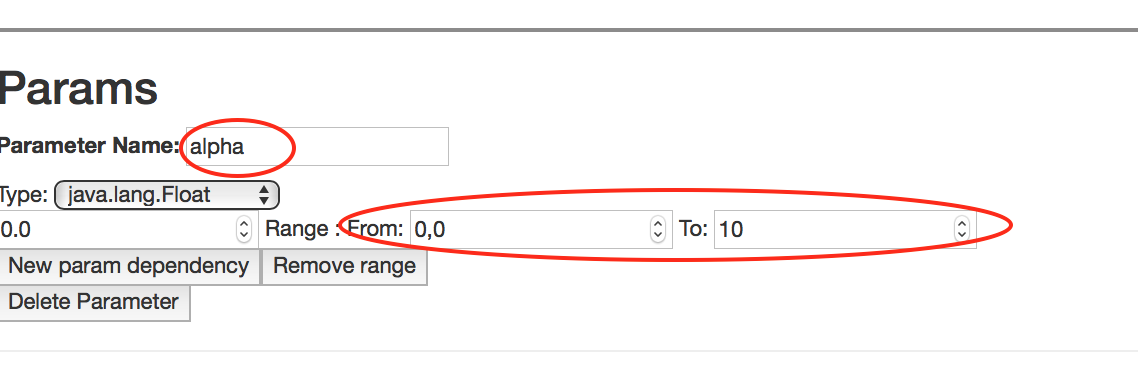
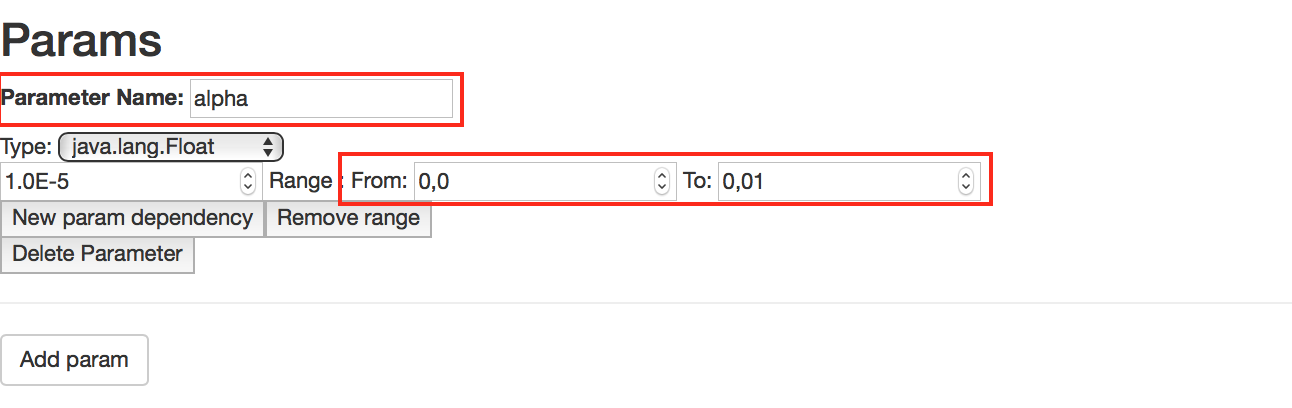
lasso example, random forest moved

diff --git a/readmefiles/example.md b/readmefiles/example.md
@@ -5,10 +5,13 @@ In the `examples` folder within the project home directory you can find a couple
 
 Examples include a couple of simple function widely used at testing various optimization techniques, as Rastrigin and Rosenbrock functions,  and also a number of machine learning problems, where performance of learning process can be infuenced by some parameters of the learning process, that are the **hyperparameters**.
 
-## BBF setup
+
+
+
+Rosenbrock
 -
 
-## Rosenbrock
+## BBF setup
 
 The setup for finding the minimum for the Rosenbrock function ([Wiki](https://en.wikipedia.org/wiki/Rosenbrock_function)) will appear when you start your GUI, that looks something like this:
 
@@ -55,9 +58,69 @@ In this section we have to give the name(**a**) BlaBoO has the search for betwee
 
 Now we are done here, so we can push **OK** to go to the next phase where we can choose between optimization strategies.
 
-##Random forest with R
 
-In this example we will show how to use BlaBoO for an ML algorithm written in R. We will optimize a script which use random forests for predicting attributes of a given dataset. For our data, we're going to use the Wine Quality data set from the UCI Machine Learning Repository.
+## Algorithm setup
+
+<img src="examples/Rosenbrock_algsel.png" alt="Rosenbrock" width="600" >
+
+Here just for sake of simplicity from the algorithm selector we choose **RandomSearch**, which doesn't requires any further setup, merely makes random guesses within the range of the variables and execute the BBF with those.
+ 
+Since there is nothing more to do here push **Run**. 
+
+## Results
+
+<img src="examples/Rosenbrock_res.png" alt="Rosenbrock" width="600" >
+
+In this slightly strange chart we can see the evolution of our objective value in function of time. Why we cant see any nice convergence process here has two reasons. On one hand we only guess randomly that is without taking into consideration past values making the chart fluctuating. The second thing here that due to this random guessing the process can be run fully parallel, so we get  the results in waves, where the fluctuation is big in short time, then we are waiting for the next wave making the chart smooth inbetween.
+
+
+An ML use-case: Lasso regression
+-
+
+This example demonstrates a use case that is  a bit closer to real ML scenarios, here we try to approximate a part of a perturbed sinus curve 
+with a 
+polynomial function, using [Lasso (Least Absolute Shrinkage and Selection Operator)](https://en.wikipedia.org/wiki/Lasso_(statistics))regression. 
+Lasso regression performs L1 regularization, penalizing complextity, 
+in this particular case coefficients of high absolute value. Controlling how to what extent we want to penalize 
+complexity in Lasso regression is carried out through setting the value of an **alpha** parameter.
+
+The code and the idea of this example is taken form:
+
+To generate the dataset we can use the following command from the home directory opf BlaBoO:
+
+```sh
+python3 examples/Lasso_Python/generate_sin_data.py
+```
+Then the experiment for ```alpha = 0.01``` looks like :
+
+```sh
+ python3 examples/Lasso_Python/Lasso_poli_reg_on_sinus_curve.py 0.01
+```
+Now we seek to find an optimal alpha value, so we will substitute `0.01` with a variable `alpha`, so the command line will look as follows:
+
+<img src="examples/Lasso_cl.png" alt="Lasso command line" width="600" >
+
+In the **Param** section then have to define the `alpha` param with the range we want to search in, for now we want to try values between `0` and `0.01`. 
+
+<img src="examples/Lasso_param.png" alt="Lasso parameter" width="600" >
+
+Finally we specify what is our target variable and what we want from that, it will be the `rss` value printed by the BBF, that should be **minimized**. Also should specify how many iteration should be run, let it be 100 for now.
+
+<img src="examples/Lasso_obj.png" alt="Lasso objectives" width="600" >
+
+Here we would like to try values evenly distributed in the given range of `alpha`. Therefore we can choose `GridSearch` from the algorithm page, and set the `stepsize` belonging to `alpha` to the length of the range of `alpha`, devided by the number of trials we want to run (that is the iteration count we gave in the **Objective** section)
+
+<img src="examples/Lasso_alg.png" alt="Lasso objectives" width="600" >
+
+When the execution of trials is completed we can see a result chart (again a bit messy due to parallelization), where we can find that we achieved the best results at `alpha = 0.00001`.
+
+<img src="examples/Lasso_res.png" alt="Lasso objectives" width="600" >
+
+
+Random forest with R
+-
+
+In this example we will show how to use BlaBoO for an ML algorithm written in [R]((https://cran.r-project.org)). We will optimize a script which use random forests for predicting attributes of a given dataset. For our data, we're going to use the Wine Quality data set from the UCI Machine Learning Repository.
 
 The setup for finding the optimal hyper-paremeter combination for a random forest will appear when you start your GUI, that looks  like this:
 
@@ -76,57 +139,3 @@ Note however that in the setup page of the GUI, the exact numeric values are rep
 Values for these two parameters will be inserted by the BlaBoO optimizer. For more information about the meaning of these parameters see https://cran.r-project.org/web/packages/randomForest/randomForest.pdf .
 
 
-## Algorithm setup
-
-<img src="examples/Rosenbrock_algsel.png" alt="Rosenbrock" width="600" >
-
-Here just for sake of simplicity from the algorithm selector we choose **RandomSearch**, which doesn't requires any further setup, merely makes random guesses within the range of the variables and execute the BBF with those.
- 
-Since there is nothing more to do here push **Run**. 
-
-##Results
-
-<img src="examples/Rosenbrock_res.png" alt="Rosenbrock" width="600" >
-
-In this slightly strange chart we can see the evolution of our objective value in function of time. Why we cant see any nice convergence process here has two reasons. On one hand we only guess randomly that is without taking into consideration past values making the chart fluctuating. The second thing here that due to this random guessing the process can be run fully parallel, so we get  the results in waves, ehere the fluctuation is big in short time, then we are waiting for the nexr wave making the chart smooth inbetween.
-
-
-An ML use-case: Lasso regression
--
-
-This example demonstrates a use case that is  a bit closer to real ML scenarios, here we try to approximate with a polynomial function a part of a perturbed sinus curve, using [Lasso (Least Absolute Shrinkage and Selection Operator)](https://en.wikipedia.org/wiki/Lasso_(statistics))regression. Lasso regression performs L1 regularization, penalizing complextity, in this particular case coefficients of high absolute value. Controlling how to what extent we want to penalize complexity in Lasso regression is carried out through setting the value of an alpha parameter.
-
-To generate the dataset we can use the following command from the home directory opf BlaBoO:
-
-```sh
-python3 examples/Lasso_Python/generate_sin_data.py
-```
-Then the experiment for ```alpha = 0.01``` looks like :
-
-```sh
- python3 examples/Lasso_Python/Lasso_poli_reg_on_sinus_curve.py 0.01
-```
-Now we seek to find an optimal alpha value, so we will substitute `0.01` with a variable `alpha`, so the command line will look as follows:
-
-<img src="examples/Lasso_cl.png" alt="Lasso" width="600" >
-
-In the **Param** section then have to define the `alpha` param with the range we want to search in.
-
-<img src="examples/Lasso_param.png" alt="Lasso" width="600" >
-
-Finally we specify what is our target variable and what we want from that:
-
-<img src="examples/Lasso_obj.png" alt="Lasso" width="600" >
-
-Here we would like to try values evenly distributed in the given range of `alpha`. Therefore we can choose `GridSearch` from the algorithm page, and set the 'stepsize' belonging to `alpha` to the length of the range of `alpha`, devided by the number of trials we want to run (that is the iteration count we gave in the **Objective** section)
-
-
-SVM - Dependent parameters
-
-
-
-
-
-<!--R -  (https://cran.r-project.org)
-
-to start -->
